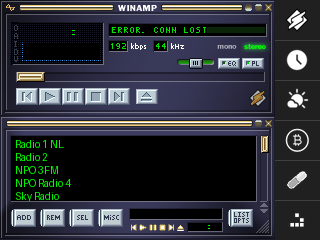
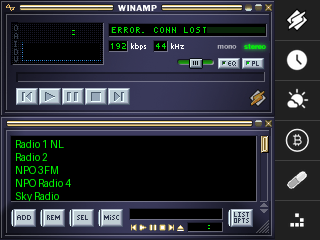
feat(TASK-253): health-tinted gradient buffer bar (WebRadio posbar)
Replace the flat-green fillRect buffer bar with a horizontal gradient stretched to
the buffer fill width, tinted amber(low)->green(high) by fill level so the colour
signals stream health, not just amount (variant B, user-chosen).

Add WinampDisplay::drawBufferBar(pct) to the shared renderer — it owns the
SKIN_POSBAR groove, so it restores the groove (handling a shrinking buffer, which
the old fillRect left stale) then draws the gradient; WebRadio's _drawPosbar
delegates. preview_webradio.py::_draw_buffer_bar mirrors it exactly, reconciling a
prior mock/firmware divergence (the mock had drawn a seek-bar thumb).

Developed via the host mock: prototyped + self-verified the look incl. RGB565
quantization (gradient survives the panel, no banding) before porting. 5/5 gates.
DUT visual sign-off still owed. Also files TASK-251 (stale origin_audit) and
TASK-252 (title marquee via drawTitleText).

Changed region(s): [[0.4062, 0.35, 0.5, 0.4375], [0.0312, 0.2917, 0.1562, 0.35]]

diff --git a/app/src/winamp/winampDisplay.h b/app/src/winamp/winampDisplay.h
@@ -162,6 +162,36 @@ public:
     g_lastRenderMs = millis();  // TASK-059: mark full chrome repaint time
   }
 
+  // TASK-253 — WebRadio buffer-health bar. The POSBAR groove (a seek bar for
+  // Spotify) is repurposed: restore the groove sprite, then draw a horizontal
+  // gradient stretched to the buffer fill width (pct 0..100), tinted amber(low)→
+  // green(high) by fill level so the colour signals stream health, not just amount.
+  // WebRadio-only (Spotify uses the groove + thumb). The renderer owns SKIN_POSBAR,
+  // so it restores the groove here → a shrinking buffer reveals it (no stale fill).
+  // Mirrors app/tools/preview_webradio.py::_draw_buffer_bar (same endpoints + lerp).
+  void drawBufferBar(uint8_t pct) {
+    if (pct > 100) pct = 100;
+    tft.startWrite();
+    blitSprite(originX + POSBAR_X, originY + POSBAR_Y, SKIN_POSBAR, SKIN_POSBAR_W, POSBAR_BG);
+    if (pct > 0) {
+      const int fillW = (int)pct * POSBAR_W / 100;
+      // Health tip colour: amber (0xF0,0x90,0x10) → green (0x30,0xE0,0x20) by fill %.
+      const int tr = 0xF0 + (0x30 - 0xF0) * pct / 100;
+      const int tg = 0x90 + (0xE0 - 0x90) * pct / 100;
+      const int tb = 0x10 + (0x20 - 0x10) * pct / 100;
+      const int den = (fillW > 1) ? fillW - 1 : 1;
+      for (int x = 0; x < fillW; x++) {
+        // within-bar gradient: dark tip (×0.4, left) → full tip (right)
+        const int r = tr * 4 / 10 + (tr - tr * 4 / 10) * x / den;
+        const int g = tg * 4 / 10 + (tg - tg * 4 / 10) * x / den;
+        const int b = tb * 4 / 10 + (tb - tb * 4 / 10) * x / den;
+        tft.drawFastVLine(originX + POSBAR_X + x, originY + POSBAR_Y, POSBAR_H,
+                          tft.color565((uint8_t)r, (uint8_t)g, (uint8_t)b));
+      }
+    }
+    tft.endWrite();
+  }
+
   // TASK-041 / ADR-014 A1.5 — VOLUME slider renderer.
   // percent: 0..100 → KEYFRAME_0..KEYFRAME_4; <0 → KEYFRAME_NONE.
   // Always blits + updates the cache; caller dedup not required (the

diff --git a/app/tools/preview_webradio.py b/app/tools/preview_webradio.py
@@ -153,14 +153,30 @@ def _draw_vu(draw, l_level: float, r_level: float):
 
 
 def _draw_buffer_bar(img: Image.Image, fill_pct: float):
-    """Buffer bar at POSBAR zone — mirrors firmware: blit BG then thumb at position."""
+    """Buffer-health bar (TASK-253) — a horizontal gradient stretched to the buffer
+    fill width, tinted amber(low)→green(high) by fill level so the colour signals
+    stream health, not just amount. Mirrors firmware _drawPosbar() exactly (same
+    endpoints + lerp); groove BG painted first by repaintChrome equivalent."""
     bg_x, bg_y, bg_w, bg_h = POSBAR_LAYOUT["POSBAR_BG"]
     img.paste(_posbar_bmp.crop((bg_x, bg_y, bg_x + bg_w, bg_y + bg_h)), (POSBAR_X, POSBAR_Y))
-    tn_x, tn_y, tn_w, tn_h = POSBAR_LAYOUT["POSBAR_THUMB_N"]
-    travel = bg_w - tn_w
-    thumb_px = int(fill_pct * travel)
-    img.paste(_posbar_bmp.crop((tn_x, tn_y, tn_x + tn_w, tn_y + tn_h)),
-              (POSBAR_X + thumb_px, POSBAR_Y))
+    if fill_pct <= 0:
+        return
+    pct = max(0.0, min(1.0, fill_pct))
+    fillw = int(pct * POSBAR_W)
+
+    def lerp(a, b, t):
+        return int(a + (b - a) * t)
+
+    # Health tip colour: amber (low buffer) → green (healthy), by fill level.
+    tr, tg, tb = lerp(0xF0, 0x30, pct), lerp(0x90, 0xE0, pct), lerp(0x10, 0x20, pct)
+    px = img.load()
+    for x in range(fillw):
+        t = x / max(1, fillw - 1)               # within-bar: dark tip → full tip
+        r = lerp(int(tr * 0.4), tr, t)
+        g = lerp(int(tg * 0.4), tg, t)
+        b = lerp(int(tb * 0.4), tb, t)
+        for y in range(POSBAR_H):
+            px[POSBAR_X + x, POSBAR_Y + y] = (r, g, b)
 
 
 def _draw_title(img: Image.Image, text: str):

diff --git a/app/src/webRadioApp.h b/app/src/webRadioApp.h
@@ -678,13 +678,10 @@ private:
     }
 
     void _drawPosbar() {
-        // POSBAR used as buffer-health bar. Background already drawn by repaintChrome.
-        // Overdraw with green fill proportional to buffer percentage.
-        if (_bufPct > 0) {
-            int fillW = (int)((uint32_t)_bufPct * POSBAR_W / 100);
-            if (fillW > POSBAR_W) fillW = POSBAR_W;
-            tft.fillRect(POSBAR_X, POSBAR_Y, fillW, POSBAR_H, 0x07E0U);
-        }
+        // TASK-253: buffer-health gradient bar. The shared renderer owns the POSBAR
+        // groove sprite, so it restores the groove (handling a shrinking buffer) and
+        // draws the amber→green health-tinted gradient stretched to _bufPct.
+        winampDisplay.drawBufferBar(_bufPct);
     }
 
     void _drawTitleZone() {

diff --git a/docs/project/tasks.md b/docs/project/tasks.md
@@ -3129,3 +3129,48 @@ Checklist must be referenced at milestone close for any future app additions.
 **Opened:** 2026-06-14
 **Owner:** Developer / Architect
 **Deps:** —
+
+---
+
+### TASK-251 — origin_audit.png is stale + gitignored (advisory, not gated)
+
+Architect note (2026-06-26): `app/gen/origin_audit.png` is a **gitignored build artifact** generated
+by `audit_origin.py --visual` from `gen/skin_layout.h`. The local copy went stale (regenerating
+changes it; the drift was the transport-row zone band at y≈89–105) and shows BOTH `originX=22`
+(legacy) and `originX=0` (current) panels — misleading when read as current. The audit's boxes come
+from `skin_layout.h` (authoritative) **except** the VIS rect (hand-mirrored from `vuMeter.h`); PLEDIT
+uses absolute screen-Y per the documented TASK-080 mismatch. Verified: in current geometry **no zone
+exceeds the 275px chrome** (LOGO 243–274, PLEDIT-Z2 256–274 sit flush at the last column, by design),
+and the PLEDIT thumb draw math is **clean** (bottom-aligns at max scroll). So the apparent
+right-overflow / off-by-1 were stale-artifact effects, not firmware bugs.
+**Deliverable:** make the audit regenerate-before-read (a `run/` wrapper or a `--check` staleness
+gate), and/or drop the legacy `originX=22` panel now that the migration is complete. Parse the VIS
+rect from `vuMeter.h` to kill the last hand-mirrored-constant drift.
+**Priority:** P3 — tooling hygiene · **Status:** open · **Opened:** 2026-06-26 · **Owner:** VE/Architect · **Deps:** —
+
+---
+
+### TASK-252 — WebRadio title zone: reuse drawTitleText (LED font + marquee)
+
+Architect ruling (2026-06-26): drop WebRadio's `_drawTitleZone` (plain GFX font on a black fill) and
+reuse the shared `WinampDisplay::drawTitleText(offset)` — the authentic Winamp LED bitmap font with a
+scroll offset, restoring the slot from `SKIN_MAIN_BG`. Wins: visual consistency with Spotify, a free
+scrolling marquee for long station names (currently truncated), −~24 lines. Requires a public
+`setTitle()`/`lastTitle` setter and WebRadio driving the scroll offset (or 0 for static); the
+connecting/error strings render in the LED font too. Caveat: `TITLE_H=6` is tight — verify the state
+strings fit. Prototype in `preview_webradio.py` first (it already uses the real `composite_text`).
+**Priority:** P3 — visual consistency · **Status:** open · **Opened:** 2026-06-26 · **Owner:** Developer + Architect · **Deps:** —
+
+---
+
+### TASK-253 — WebRadio posbar: health-tinted gradient buffer bar
+
+Replace the flat-green `fillRect` buffer bar (ugly) with a horizontal gradient stretched to the buffer
+fill width, tinted **amber(low)→green(high)** by fill level so the colour signals stream health
+(variant B, user-chosen 2026-06-26). The shared renderer gained `WinampDisplay::drawBufferBar(pct)` —
+it owns the `SKIN_POSBAR` groove, so it restores the groove (handling a *shrinking* buffer, which the
+old fillRect left stale) then draws the gradient; WebRadio's `_drawPosbar` just delegates.
+`preview_webradio.py::_draw_buffer_bar` mirrors it exactly (reconciling a prior mock/firmware
+divergence — the mock had drawn a seek-bar thumb). Prototyped + self-verified in the host incl.
+**RGB565 quantization** (gradient survives the panel, no banding); 5/5 gates.
+**Priority:** P3 — visual polish · **Status:** implemented — mock+RGB565-verified 2026-06-26; **DUT visual sign-off owed** · **Opened:** 2026-06-26 · **Owner:** Developer + Architect · **Deps:** —
